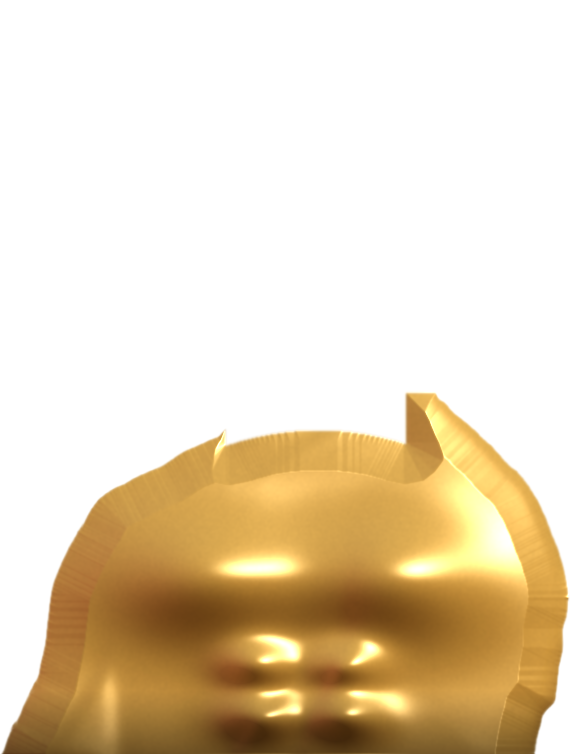
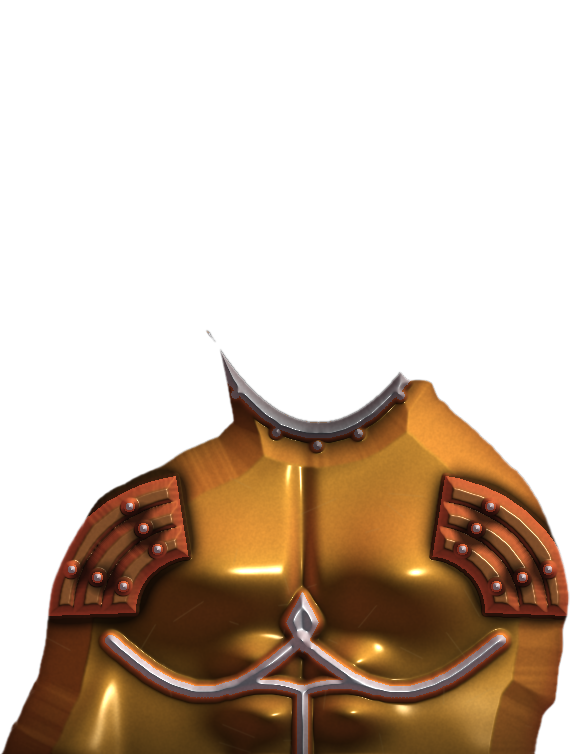
Logroñés vs Arenas: armadura realista en relieve, sin escudo romano ni lema
Claude-Session: https://claude.ai/code/session_01Q54DXVH7GopsR3mpjPBNRA

diff --git a/miniaturero/salida/2026-11-15_logrones-arenas/proyecto/poster.html b/miniaturero/salida/2026-11-15_logrones-arenas/proyecto/poster.html
@@ -117,43 +117,11 @@
     </svg>
     <img class="jugador" src="img/anai_iluminado.png" alt="Anai Morales">
     <img class="armadura" src="img/coraza.png" alt="">
-    <img class="armadura" src="img/armadura.svg" alt="">
-    <!-- escudo romano (scutum) dibujado con código, con el escudo del Logroñés -->
-    <svg class="escudo-romano" viewBox="0 0 300 400">
-      <defs>
-        <linearGradient id="curva" x1="0" x2="1">
-          <stop offset="0" stop-color="#5a0010"/><stop offset=".22" stop-color="#c10820"/><stop offset=".5" stop-color="#e01530"/>
-          <stop offset=".78" stop-color="#b0061c"/><stop offset="1" stop-color="#4a000c"/>
-        </linearGradient>
-        <linearGradient id="oro" x1="0" y1="0" x2="1" y2="1">
-          <stop offset="0" stop-color="#fff0b8"/><stop offset=".35" stop-color="#e7b955"/><stop offset=".7" stop-color="#b07a24"/><stop offset="1" stop-color="#6e4510"/>
-        </linearGradient>
-        <radialGradient id="umbo" cx="38%" cy="32%" r="70%">
-          <stop offset="0" stop-color="#fff6cf"/><stop offset=".4" stop-color="#e7b955"/><stop offset="1" stop-color="#6e4510"/>
-        </radialGradient>
-        <clipPath id="cuerpo"><rect x="14" y="14" width="272" height="372" rx="34"/></clipPath>
-      </defs>
-      <rect x="4" y="4" width="292" height="392" rx="42" fill="url(#oro)"/>
-      <rect x="14" y="14" width="272" height="372" rx="34" fill="url(#curva)"/>
-      <g clip-path="url(#cuerpo)" stroke="url(#oro)" stroke-width="9" fill="none" opacity=".95">
-        <path d="M150 14 V386 M14 200 H286"/>
-        <path d="M40 50 L110 120 M260 50 L190 120 M40 350 L110 280 M260 350 L190 280" stroke-width="6"/>
-      </g>
-      <g clip-path="url(#cuerpo)" fill="none" stroke="#000" stroke-opacity=".18" stroke-width="2">
-        <rect x="24" y="24" width="252" height="352" rx="28"/>
-      </g>
-      <circle cx="150" cy="200" r="74" fill="url(#umbo)" stroke="#6e4510" stroke-width="4"/>
-      <circle cx="150" cy="200" r="62" fill="#1a0306" opacity=".25"/>
-      <image href="img/escudo_logrones.png" x="113" y="146" width="74" height="108" preserveAspectRatio="xMidYMid meet"/>
-      <ellipse cx="118" cy="168" rx="20" ry="12" fill="#fff" opacity=".35"/>
-      <rect x="14" y="14" width="272" height="372" rx="34" fill="url(#curva)" opacity="0"/>
-    </svg>
   </div>
 
   <div class="vineta"></div>
 
   <div class="titulo"><span>MATCH</span><span class="hueco">DAY</span></div>
-  <div class="lema">A LA ARENA</div>
 
   <div class="equipos">
     <div class="club"><img src="img/escudo_logrones.png" alt="UD Logroñés"><span>UD LOGROÑÉS</span></div>

diff --git a/miniaturero/salida/2026-11-15_logrones-arenas/proyecto/hacer_coraza.py b/miniaturero/salida/2026-11-15_logrones-arenas/proyecto/hacer_coraza.py
@@ -1,40 +1,174 @@
-"""Coraza dorada que sigue la silueta y el relieve del torso del jugador (diseño original, todo con código)."""
-import sys, cv2, numpy as np
+"""Armadura de gladiador realista (diseño original, todo con código).
+Se construye un mapa de alturas sobre el torso del jugador (coraza musculada, ribetes en relieve,
+hombreras de placas superpuestas, remaches) y se sombrea como metal con la misma luz que la foto."""
+import sys
+import cv2
+import numpy as np
 from PIL import Image
-sys.path.insert(0, 'herramientas'); import mini
+
+sys.path.insert(0, 'herramientas')
+import mini  # noqa: E402
+
 D = 'salida/2026-11-15_logrones-arenas/proyecto/img/'
-im = np.array(Image.open(D + 'anai.png').convert('RGBA')); h, w = im.shape[:2]
+im = np.array(Image.open(D + 'anai.png').convert('RGBA'))
+h, w = im.shape[:2]
 a = im[..., 3].astype(np.float32) / 255
 yy, xx = np.mgrid[0:h, 0:w].astype(np.float32)
-# escote en U alrededor del cuello
-cuello = np.minimum(430 + 0.0018 * (xx - 318) ** 2, 455)
-cuello = np.where((xx < 225) | (xx > 405), 392, cuello)
-m = ((yy > cuello) & (a > .5)).astype(np.float32)
-m = cv2.GaussianBlur(m, (0, 0), 1.2)
-# relieve: profundidad del torso + músculos esculpidos (pectorales, abdominales)
-d = mini.profundidad(im[..., :3]); lo, hi = np.percentile(d[m > .5], [2, 98]); d = np.clip((d - lo) / (hi - lo), 0, 1)
-d = cv2.GaussianBlur(d, (0, 0), 6)
-def bulto(cx, cy, rx, ry, k): return k * np.exp(-(((xx - cx) / rx) ** 2 + ((yy - cy) / ry) ** 2))
-musc = (bulto(210, 575, 95, 60, 1.0) + bulto(395, 575, 95, 60, 1.0)
-        + sum(bulto(cx, cy, 38, 24, .55) for cx in (258, 345) for cy in (665, 715)))
-dist = cv2.distanceTransform((m > .5).astype(np.uint8), cv2.DIST_L2, 5)
-z = (d * 0.6 + musc + np.clip(dist / 40, 0, 1) * .35).astype(np.float32)
-gx = cv2.Sobel(z, cv2.CV_32F, 1, 0, ksize=5); gy = cv2.Sobel(z, cv2.CV_32F, 0, 1, ksize=5)
-esc = 0.7 / (np.median(np.hypot(gx, gy)[m > .5]) + 1e-6); gx *= esc; gy *= esc
-N = np.dstack([-gx, -gy, np.ones_like(gx)]); N /= np.linalg.norm(N, axis=2, keepdims=True)
-L = np.array([.5, -.55, .67]); L /= np.linalg.norm(L)           # mismo foco que el jugador (derecha-arriba)
-dif = np.clip(N @ L, 0, 1)
-H = L + [0, 0, 1]; H /= np.linalg.norm(H); spec = np.clip(N @ H, 0, 1) ** 30
-env = np.clip(N[..., 1] * -.5 + .5, 0, 1)                        # reflejo del entorno: cielo claro arriba, suelo oscuro
-oro_osc, oro, oro_cla = np.array([.36, .2, .04]), np.array([.86, .6, .2]), np.array([1, .93, .62])
-col = oro_osc + (oro - oro_osc) * dif[..., None] ** .9
-col = col + (oro_cla - col) * (env[..., None] * .35)
-col = col + spec[..., None] * np.array([1, .95, .8]) * .9
-rim = np.clip(-N[..., 0], 0, 1) ** 2 * .5                         # contraluz rojo por la izquierda
-col = 1 - (1 - col) * (1 - rim[..., None] * np.array([1, .2, .15]))
-ruido = cv2.GaussianBlur(np.random.default_rng(3).random((h, w)).astype(np.float32), (0, 0), 1.2)
-col *= (0.96 + 0.08 * ruido)[..., None]                             # metal algo gastado
-col *= (1 - np.clip((yy - 690) / 64, 0, 1) * .45)[..., None]      # se funde un poco en sombra abajo
+rng = np.random.default_rng(7)
+
+# ---------- zona que cubre la armadura (todo el torso menos cuello y cara)
+def escote(x):
+    return np.clip(422 - 0.0075 * (np.asarray(x, np.float32) - 318) ** 2, 330, None)   # escote en U suave alrededor del cuello
+
+
+cuello = escote(xx)
+cuerpo = ((yy > cuello) & (a > .5)).astype(np.uint8)
+
+# ---------- materiales: 0 nada, 1 oro (coraza), 2 plata (ribetes/remaches), 3 bronce (hombreras)
+mat = np.zeros((h, w), np.uint8)
+mat[cuerpo > 0] = 1
+z = np.zeros((h, w), np.float32)
+
+# relieve base del cuerpo (profundidad) + musculatura esculpida
+d = mini.profundidad(im[..., :3]).astype(np.float32)
+lo, hi = np.percentile(d[cuerpo > 0], [2, 98])
+d = cv2.GaussianBlur(np.clip((d - lo) / (hi - lo), 0, 1), (0, 0), 8)
+
+
+def bulto(cx, cy, rx, ry, k):
+    return (k * np.exp(-(((xx - cx) / rx) ** 2 + ((yy - cy) / ry) ** 2))).astype(np.float32)
+
+
+musc = bulto(212, 572, 92, 58, 1.0) + bulto(398, 572, 92, 58, 1.0)
+for cx in (258, 346):
+    for cy in (662, 712):
+        musc += bulto(cx, cy, 36, 22, .5)
+musc -= bulto(302, 600, 10, 120, .35)                      # surco central
+dist = cv2.distanceTransform(cuerpo, cv2.DIST_L2, 5)
+z += (d * 1.2 + musc + np.clip(dist / 45, 0, 1) * .8) * cuerpo
+
+# ---------- ribetes plateados en relieve
+rib = np.zeros((h, w), np.uint8)
+def curva(pts, grosor):
+    cv2.polylines(rib, [np.array(pts, np.int32)], False, 255, grosor, cv2.LINE_AA)
+t = np.linspace(0, 1, 60)
+xs = np.linspace(205, 432, 60)
+curva(np.c_[xs, escote(xs) + 9], 13)                                              # cuello
+curva(np.c_[110 + t * 190, 640 + 52 * np.sin(np.pi * t)], 10)                       # bajo pectoral izq.
+curva(np.c_[300 + t * 200, 640 + 52 * np.sin(np.pi * t)], 10)                       # bajo pectoral der.
+curva([[302, 690], [302, 754]], 9)                                                   # línea central
+curva(np.c_[230 + t * 70, 690 - 6 * np.sin(np.pi * t)], 7)
+curva(np.c_[305 + t * 70, 690 - 6 * np.sin(np.pi * t)], 7)
+rib = (rib > 100).astype(np.uint8) & cuerpo
+ribz = cv2.GaussianBlur(rib.astype(np.float32), (0, 0), 2.2)
+z += ribz * .9
+mat[rib > 0] = 2
+# adorno central (rombo)
+rombo = np.zeros((h, w), np.uint8)
+cv2.fillPoly(rombo, [np.array([[302, 592], [318, 622], [302, 652], [286, 622]], np.int32)], 1)
+z += cv2.GaussianBlur(rombo.astype(np.float32), (0, 0), 3) * 1.1
+mat[rombo > 0] = 2
+
+# ---------- hombreras de placas superpuestas (bronce)
+def hombrera(cx, cy, lado):
+    global z
+    for i, r in enumerate((150, 122, 94)):                 # placa exterior primero, la de arriba encima
+        placa = np.zeros((h, w), np.uint8)
+        a0, a1 = (178, 262) if lado < 0 else (278, 362)
+        cv2.ellipse(placa, (cx, cy), (r, int(r * .9)), 0, a0, a1, 1, -1)
+        cv2.ellipse(placa, (cx, cy), (r - 34, int((r - 34) * .9)), 0, 0, 360, 0, -1)
+        placa &= (a > .3).astype(np.uint8)
+        if placa.sum() == 0:
+            continue
+        dd = cv2.distanceTransform(placa, cv2.DIST_L2, 3)
+        cupula = np.clip(dd / 9, 0, 1) ** .7
+        zp = 2.4 + i * .45 + cupula * .7
+        sel = placa > 0
+        z[sel] = zp[sel]
+        mat[sel] = 3
+        # remaches en cada placa
+        for ang in np.linspace(np.radians(a0 + 22), np.radians(a1 - 22), 2):
+            rx, ry = int(cx + (r - 17) * np.cos(ang)), int(cy + (r - 17) * .9 * np.sin(ang))
+            if 0 <= ry < h and 0 <= rx < w and a[ry, rx] > .5:
+                rem = bulto(rx, ry, 3.5, 3.5, .7)
+                z[:] = np.maximum(z, zp * sel + rem * (rem > .05) + (rem > .05) * zp[ry, rx])
+                mat[rem > .2] = 2
+
+
+hombrera(196, 610, -1)
+hombrera(424, 610, 1)
+
+# remaches a lo largo del ribete del cuello
+for xr in np.linspace(235, 400, 5):
+    rx, ry = int(xr), int(escote(xr)) + 24
+    if cuerpo[ry, rx] and mat[ry, rx] == 1:
+        rem = bulto(rx, ry, 4, 4, .8)
+        z += rem
+        mat[rem > .25] = 2
+
+cubre = (mat > 0)
+alfa = cv2.GaussianBlur(cubre.astype(np.float32), (0, 0), .9) * a
+
+# ---------- normales
+zf = cv2.GaussianBlur(z, (0, 0), 1.2)
+gx = cv2.Sobel(zf, cv2.CV_32F, 1, 0, ksize=3)
+gy = cv2.Sobel(zf, cv2.CV_32F, 0, 1, ksize=3)
+k = 1.6 / (np.median(np.hypot(gx, gy)[cubre]) + 1e-6)
+N = np.dstack([-gx * k, -gy * k, np.ones_like(gx)])
+N /= np.linalg.norm(N, axis=2, keepdims=True)
+
+L = np.array([.5, -.55, .67], np.float32); L /= np.linalg.norm(L)
+V = np.array([0, 0, 1], np.float32)
+H = (L + V) / np.linalg.norm(L + V)
+ndl = np.clip(N @ L, 0, 1)
+ndh = np.clip(N @ H, 0, 1)
+fres = (1 - np.clip(N[..., 2], 0, 1)) ** 2
+
+# oclusión ambiental (cavidades) a partir del mapa de alturas
+ao = np.clip(1 - np.clip(cv2.GaussianBlur(z, (0, 0), 10) - z, 0, None) * 1.4, .35, 1)
+# reflejo del entorno: arriba claro y cálido, abajo rojo oscuro (el póster)
+ry = N[..., 1]
+env = np.dstack([np.interp(ry, [-1, 0, 1], c) for c in ([1.0, .55, .28], [.95, .45, .2], [.85, .35, .2])])
+env_k = np.clip(-ry * .5 + .5, 0, 1)[..., None]
+
+base = {1: (np.array([.92, .66, .24]), np.array([.30, .17, .04]), 70, 1.0),     # oro
+        2: (np.array([.95, .96, .98]), np.array([.32, .33, .36]), 90, 1.1),      # plata
+        3: (np.array([.72, .44, .22]), np.array([.18, .09, .04]), 35, .7)}      # bronce gastado
+col = np.zeros((h, w, 3), np.float32)
+for mid, (claro, oscuro, brillo, ks) in base.items():
+    sel = mat == mid
+    if not sel.any():
+        continue
+    dif = ndl[sel][:, None] ** 1.1
+    c = oscuro + (claro - oscuro) * dif
+    c = c * ((.65 + .35 * env[sel] * env_k[sel]) if mid != 2 else (.85 + .15 * env[sel]))   # tinte del entorno
+    c += (ndh[sel] ** brillo)[:, None] * np.array([1, .97, .9]) * ks     # brillo nítido
+    c += (ndh[sel] ** 8)[:, None] * claro * .25 * ks                     # brillo amplio
+    c += fres[sel][:, None] * np.array([.9, .25, .2]) * (.15 if mid == 2 else .4)   # contraluz rojo del fondo
+    col[sel] = c
+
+col *= ao[..., None]
+# desgaste: ruido fino + arañazos + suciedad en cavidades
+ruido = cv2.GaussianBlur(rng.random((h, w)).astype(np.float32), (0, 0), .8)
+col *= (.93 + .14 * ruido)[..., None]
+ara = np.zeros((h, w), np.uint8)
+for _ in range(35):
+    x0, y0 = rng.integers(40, w - 40), rng.integers(440, h)
+    ang, ln = rng.uniform(0, np.pi), rng.uniform(8, 40)
+    cv2.line(ara, (int(x0), int(y0)), (int(x0 + ln * np.cos(ang)), int(y0 + ln * np.sin(ang))), 255, 1, cv2.LINE_AA)
+ara = cv2.GaussianBlur(ara.astype(np.float32) / 255, (0, 0), .5) * (mat == 1)
+col = col * (1 - ara[..., None] * .12) + ara[..., None] * np.array([1, .9, .6]) * .08
+sucio = cv2.GaussianBlur(rng.random((h, w)).astype(np.float32), (0, 0), 6)
+col *= (1 - (1 - ao) * .5 * sucio)[..., None]
+
+# sombra de la barbilla/cuello sobre la coraza y sombra en los bordes
+bajo_cuello = np.clip(1 - (yy - cuello) / 60, 0, 1) * np.exp(-((xx - 318) / 120) ** 2)
+col *= (1 - .55 * bajo_cuello * cuerpo)[..., None]
+borde = np.exp(-dist / 14) * (mat == 1)
+col *= (1 - .3 * borde)[..., None]
+# se funde algo en sombra abajo, como el jugador
+col *= (1 - np.clip((yy - 680) / 74, 0, 1) * .4)[..., None]
+
 out = (np.clip(col, 0, 1) * 255).astype(np.uint8)
-Image.fromarray(np.dstack([out, (m * im[..., 3] / 255 * 255).astype(np.uint8)])).save(D + 'coraza.png')
+Image.fromarray(np.dstack([out, (alfa * 255).astype(np.uint8)])).save(D + 'coraza.png')
 print('ok')

diff --git a/miniaturero/salida/2026-11-15_logrones-arenas/notas.md b/miniaturero/salida/2026-11-15_logrones-arenas/notas.md
@@ -8,6 +8,7 @@
 - **Fondo del estadio:** foto "Estadio Las Gaunas.JPG" de Wikimedia Commons, autor **Dilema**, licencia **CC BY 3.0 / GFDL 1.2** → crédito pequeño abajo a la izquierda. Muy poca opacidad (16 %), en escala de grises, desenfocada y teñida de rojo para que no moleste.
 - **Foto del estadio (11/11):** aportada por el usuario (`entrada/las_gaunas.webp`). Es la misma vista que la foto de Wikimedia Commons de "Dilema" (CC BY 3.0), así que se mantiene el crédito.
 - **Armadura (11/11):** la referencia del usuario (`entrada/armadura_referencia.webp`) es una vista previa de banco de imágenes (Dreamstime) con marca de agua: **no se usa** (no está licenciada y no se quitan marcas de agua). En su lugar, coraza **original** hecha con código: `proyecto/hacer_coraza.py` genera el metal dorado siguiendo la silueta y el relieve del torso (Depth Anything + pectorales/abdominales esculpidos, mismo foco que el jugador, brillos, contraluz rojo) y `img/armadura.svg` añade ribetes plateados, hombreras de cuero y correa con hebillas. El escudo romano pasa a la esquina inferior izquierda para que se vea la coraza.
+- **Cambios (11/11, petición del usuario):** fuera el escudo romano y el texto "A LA ARENA". Armadura rehecha para que sea realista: `proyecto/hacer_coraza.py` crea un mapa de alturas sobre el torso (coraza musculada, ribetes plateados en relieve, escote en U alrededor del cuello, hombreras de 3 placas de bronce superpuestas, remaches) y lo sombrea como metal con la misma luz que la foto: brillos, reflejo del entorno, oclusión en cavidades, desgaste y arañazos suaves, sombra de la barbilla y contraluz rojo. Se elimina la versión dibujada en SVG.
 - **Fuentes:** Anton, Bebas Neue y Montserrat (SIL OFL).
 - **Revisión:** 1) capa casi invisible, broches flotando, el escudo romano chocaba con la fecha → fecha a la columna derecha, broches fuera, capa que ondea hacia la derecha; 2) capa plana → pliegues con luces y sombras; 3) en 9:16 el escudo romano rozaba el "16:30" → recolocado.
 
